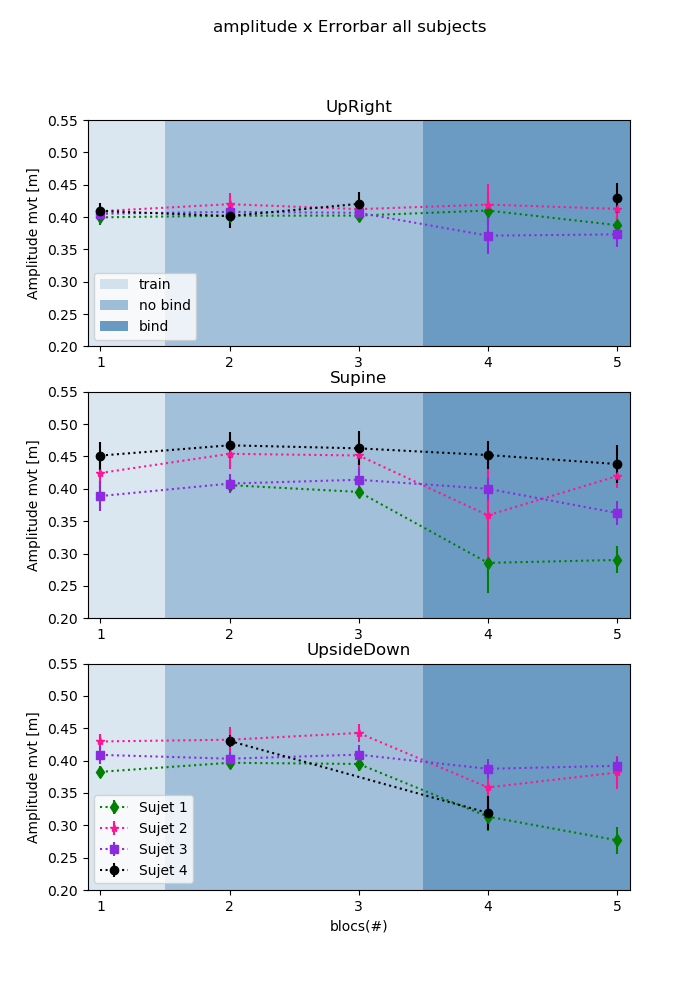
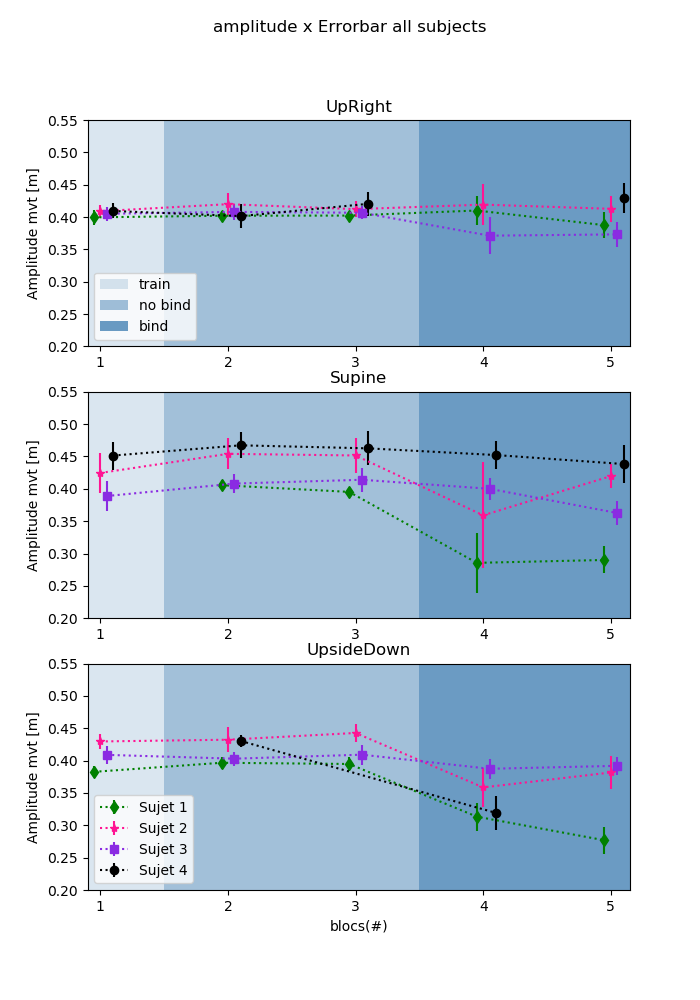
update code

diff --git a/codepython/Difference en y/Just3and4.py b/codepython/Difference en y/Just3and4.py
@@ -2,14 +2,14 @@ from os import path
 
 import matplotlib.pyplot as plt
 import numpy as np
-import statsmodels.stats.weightstats as sm2
 from scipy import signal
+import statsmodels.stats.weightstats as sm2
 from scipy import stats as sc
 
 import coda_tools as coda
 import processing_tools as tool
 
-ntrials = [1, 2, 3, 4, 5]  # /!\ changer noms de fichiers
+ntrials = [3, 4]  # /!\ changer noms de fichiers
 positions = ['UR', 'SP', 'UD']
 names = ['GD', 'PDs', 'LH', 'MH']
 colors = ['plum', 'aquamarine', 'aquamarine', 'royalblue', 'royalblue']
@@ -40,14 +40,22 @@ sujetmarker = {
 
 fig, (ax1, ax2, ax3) = plt.subplots(nrows=3, ncols=1, figsize=(7, 10))
 tup = (ax1, ax2, ax3)
+file1 = open("stats34_delaty", "w")
 for p, ax in zip(positions, tup):
-    a=-2
+    a = -2
+    file1.write("########################%s######################\n" % positionsdico[p])
+    array3 = []
+    array4 = []
     for name in names:
+        if p == 'UR' and name == 'MH':
+            continue
         box = []
         box1 = []
         index = []
-        a+=1
+        a += 1
         for n in ntrials:
+            if p == 'UD' and name == 'MH' and n == 3:
+                n = 2
             file_path = "../../data/Groupe_1_codas/%s_%s_coda000%d.txt" % (name, p, n)
             if not path.exists(file_path):
                 continue
@@ -67,35 +75,41 @@ for p, ax in zip(positions, tup):
 
                 ecart = []
                 for k in range(len(cycle_starts)):
-                    if not np.isnan(abs(np.nanmax(pos[0][cycle_starts[k]:cycle_ends[k]]) - np.nanmin(
-                            pos[0][cycle_starts[k]:cycle_ends[k]]))):
-                        ecart.append(abs(np.nanmax(pos[0][cycle_starts[k]:cycle_ends[k]]) - np.nanmin(
-                            pos[0][cycle_starts[k]:cycle_ends[k]])))
+                    if not np.isnan(abs(np.nanmax(pos[1][cycle_starts[k]:cycle_ends[k]]) - np.nanmin(
+                            pos[1][cycle_starts[k]:cycle_ends[k]]))):
+                        ecart.append(abs(np.nanmax(pos[1][cycle_starts[k]:cycle_ends[k]]) - np.nanmin(
+                            pos[1][cycle_starts[k]:cycle_ends[k]])))
+                if n == 3:
+                    array3.append(np.nanmean(ecart))
+                if n == 4:
+                    array4.append(np.nanmean(ecart))
                 box.append(np.nanmean(ecart))
                 box1.append(np.nanstd(ecart))
-                index.append(n + a * 0.05)
+                if p == 'UD' and name == 'MH' and n == 2:
+                    index.append(n+1 + a * 0.05)
+                else:
+                    index.append(n + a * 0.05)
         if ax == ax3:
             ax.errorbar(index, box, yerr=box1, linestyle='dotted', color=sujetcolor[name], marker=sujetmarker[name],
                         label=sujet[name])
         else:
             ax.errorbar(index, box, yerr=box1, linestyle='dotted', color=sujetcolor[name], marker=sujetmarker[name])
-    if ax3 == ax:
-        ax.axvspan(0.5, 1.50, facecolor='steelblue', alpha=0.2)
-        ax.axvspan(1.5, 3.50, facecolor='steelblue', alpha=0.5)
-        ax.axvspan(3.5, 5.50, facecolor='steelblue', alpha=0.8)
-    else:
-        ax.axvspan(0.5, 1.50, facecolor='steelblue', alpha=0.2, label='train')
-        ax.axvspan(1.5, 3.50, facecolor='steelblue', alpha=0.5, label='no bind')
-        ax.axvspan(3.5, 5.50, facecolor='steelblue', alpha=0.8, label='bind')
-    ax.set_ylim(0.20, 0.55)
-    ax.set_xlim(0.9, 5.15)
-    ax.set_xticks([1, 2, 3, 4, 5])
+    ax.set_ylim(0.0, 0.15)
+    ax.set_xticks([3, 4])
+    ax.set_xticklabels(['last block no bind', 'first block bind'])
+    ax.set_xlim(2.85, 4.15)
     ax.set_title("%s" % positionsdico[p])
     ax.set_ylabel("Amplitude mvt [m]")
-    if p == 'UR':
-        ax.legend(loc="lower left")
+    X1 = sm2.DescrStatsW(array3)
+    X2 = sm2.DescrStatsW(array4)
+    Ttest = sm2.CompareMeans(X1, X2)
+    file1.write(Ttest.summary(usevar='pooled').as_text() + "\n")
+    file1.write("les deux moyennes sont: %f et %f\n" % (np.nanmean(array3), np.nanmean(array4)))
+    Txbis, pvalbis = sc.bartlett(array3, array4)
+    file1.write("p_value pour la variance %f \n" % pvalbis)
+    file1.write("les deux variances sont %f et %f\n" % (np.nanstd(array3), np.nanstd(array4)))
     if p == 'UD':
-        ax.legend(loc="lower left")
-        ax.set_xlabel('blocs(#)')
+        ax.legend(loc="upper left")
 fig.suptitle("amplitude x Errorbar all subjects")
-plt.savefig("errorbar_en_x_for_all.png")
+plt.savefig("34_en_x_for_all.png")
+file1.close()

diff --git a/codepython/Amplitude en X/Just3and4.py b/codepython/Amplitude en X/Just3and4.py
@@ -2,14 +2,14 @@ from os import path
 
 import matplotlib.pyplot as plt
 import numpy as np
-import statsmodels.stats.weightstats as sm2
 from scipy import signal
+import statsmodels.stats.weightstats as sm2
 from scipy import stats as sc
 
 import coda_tools as coda
 import processing_tools as tool
 
-ntrials = [1, 2, 3, 4, 5]  # /!\ changer noms de fichiers
+ntrials = [3, 4]  # /!\ changer noms de fichiers
 positions = ['UR', 'SP', 'UD']
 names = ['GD', 'PDs', 'LH', 'MH']
 colors = ['plum', 'aquamarine', 'aquamarine', 'royalblue', 'royalblue']
@@ -40,14 +40,22 @@ sujetmarker = {
 
 fig, (ax1, ax2, ax3) = plt.subplots(nrows=3, ncols=1, figsize=(7, 10))
 tup = (ax1, ax2, ax3)
+file1 = open("stats34_delatx", "w")
 for p, ax in zip(positions, tup):
-    a=-2
+    a = -2
+    file1.write("########################%s######################" % positionsdico[p])
+    array3 = []
+    array4 = []
     for name in names:
+        if p == 'UR' and name == 'MH':
+            continue
         box = []
         box1 = []
         index = []
-        a+=1
+        a += 1
         for n in ntrials:
+            if p == 'UD' and name == 'MH' and n == 3:
+                n = 2
             file_path = "../../data/Groupe_1_codas/%s_%s_coda000%d.txt" % (name, p, n)
             if not path.exists(file_path):
                 continue
@@ -71,31 +79,38 @@ for p, ax in zip(positions, tup):
                             pos[0][cycle_starts[k]:cycle_ends[k]]))):
                         ecart.append(abs(np.nanmax(pos[0][cycle_starts[k]:cycle_ends[k]]) - np.nanmin(
                             pos[0][cycle_starts[k]:cycle_ends[k]])))
+                if n == 3:
+                    array3.append(np.nanmean(ecart))
+                if n == 4:
+                    array4.append(np.nanmean(ecart))
                 box.append(np.nanmean(ecart))
                 box1.append(np.nanstd(ecart))
-                index.append(n + a * 0.05)
+                if p == 'UD' and name == 'MH' and n == 2:
+                    index.append(n+1 + a * 0.05)
+                else:
+                    index.append(n + a * 0.05)
         if ax == ax3:
             ax.errorbar(index, box, yerr=box1, linestyle='dotted', color=sujetcolor[name], marker=sujetmarker[name],
                         label=sujet[name])
         else:
             ax.errorbar(index, box, yerr=box1, linestyle='dotted', color=sujetcolor[name], marker=sujetmarker[name])
-    if ax3 == ax:
-        ax.axvspan(0.5, 1.50, facecolor='steelblue', alpha=0.2)
-        ax.axvspan(1.5, 3.50, facecolor='steelblue', alpha=0.5)
-        ax.axvspan(3.5, 5.50, facecolor='steelblue', alpha=0.8)
-    else:
-        ax.axvspan(0.5, 1.50, facecolor='steelblue', alpha=0.2, label='train')
-        ax.axvspan(1.5, 3.50, facecolor='steelblue', alpha=0.5, label='no bind')
-        ax.axvspan(3.5, 5.50, facecolor='steelblue', alpha=0.8, label='bind')
     ax.set_ylim(0.20, 0.55)
     ax.set_xlim(0.9, 5.15)
-    ax.set_xticks([1, 2, 3, 4, 5])
+    ax.set_xticks([3, 4])
+    ax.set_xticklabels(['last block no bind', 'first block bind'])
+    ax.set_xlim(2.85, 4.15)
     ax.set_title("%s" % positionsdico[p])
     ax.set_ylabel("Amplitude mvt [m]")
-    if p == 'UR':
-        ax.legend(loc="lower left")
+    X1 = sm2.DescrStatsW(array3)
+    X2 = sm2.DescrStatsW(array4)
+    Ttest = sm2.CompareMeans(X1, X2)
+    file1.write(Ttest.summary(usevar='pooled').as_text() + "\n")
+    file1.write("les deux moyennes sont: %f et %f\n" % (np.nanmean(array3), np.nanmean(array4)))
+    Txbis, pvalbis = sc.bartlett(array3, array4)
+    file1.write("p_value pour la variance %f \n" % pvalbis)
+    file1.write("les deux variances sont %f et %f\n" % (np.nanstd(array3), np.nanstd(array4)))
     if p == 'UD':
         ax.legend(loc="lower left")
-        ax.set_xlabel('blocs(#)')
 fig.suptitle("amplitude x Errorbar all subjects")
-plt.savefig("errorbar_en_x_for_all.png")
+plt.savefig("34_en_x_for_all.png")
+file1.close()

diff --git a/codepython/Difference en y/allsubjects.py b/codepython/Difference en y/allsubjects.py
@@ -39,10 +39,12 @@ sujetmarker={
 fig, (ax1, ax2, ax3) = plt.subplots(nrows=3, ncols=1, figsize=(7, 10))
 tup = (ax1, ax2, ax3)
 for p, ax in zip(positions, tup):
+    a=-3
     for name in names:
         box = []
         box1 = []
         index = []
+        a+=1
         for n in ntrials:
             file_path = "../../data/Groupe_1_codas/%s_%s_coda000%d.txt" % (name, p, n)
             if not path.exists(file_path):
@@ -67,15 +69,13 @@ for p, ax in zip(positions, tup):
                         pos[1][cycle_starts[k]:cycle_ends[k]])))
                 box.append(np.nanmean(ecart))
                 box1.append(np.nanstd(ecart))
-                index.append(n)
+                index.append(n+ a * 0.05)
 
         ax.errorbar(index, box, yerr=box1, linestyle='dotted',color=sujetcolor[name],marker=sujetmarker[name],label=sujet[name])
-
-
     ax.axvspan(0.5, 1.50, facecolor='steelblue', alpha=0.2, label='train')
     ax.axvspan(1.5, 3.50, facecolor='steelblue', alpha=0.5, label='no bind')
     ax.axvspan(3.5, 5.50, facecolor='steelblue', alpha=0.8, label='bind')
-    ax.set_ylim(0.015, 0.1)
+    ax.set_ylim(0.0, 0.15)
     ax.set_xlim(0.9,5.1)
     ax.set_xticks([1,2,3,4,5])
     ax.set_title("%s" % positionsdico[p])
